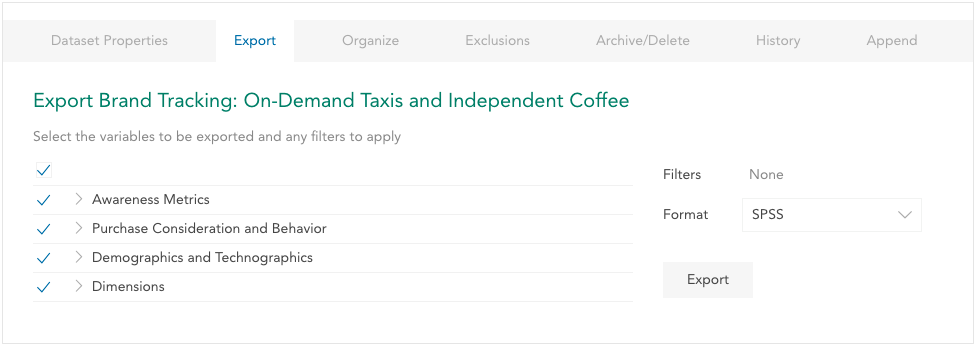
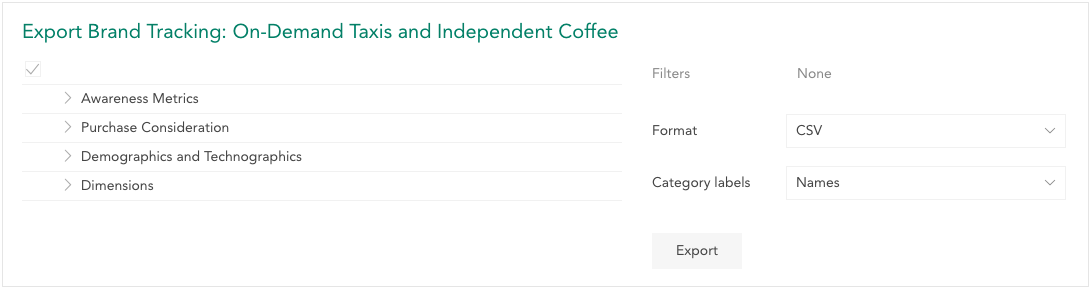
Documented new export options

diff --git a/_includes/custom/exporting-data.md b/_includes/custom/exporting-data.md
@@ -2,13 +2,31 @@ Export data by opening [Dataset Properties](crunch_dataset-properties.html) and 
 
 ![](images/ExportData.png)
 
-The dataset's variable are listed on the left side. By default all variables are selected &8211; you can choose to export only a subset of variables by deselecting any variables or groups that you don't want to export.
+### Selecting variables
+
+The dataset's variable are listed on the left side. By default all variables are selected – you can choose to export only a subset of variables by deselecting any variables or groups that you don't want to export.
+
+### Filtering variables
 
 You can use the filter bar on the right side to export a filtered subset of rows. By default, any filters that were applied to the dataset will still be applied, and you can [add and remove filters](crunch_filtering-data.html) in the same manner as you would elsewhere.
 
-Once you have determined what rows and columns to export, select a format (SPSS or CSV) from the **Format** selector and click the **Export** button. The button will read **Exporting...** while the export is prepared.
+###Export Options
 
-Once the export is complete, the **Export** button will be replaced by **Download** and **Cancel**.
+Once you have determined what rows and columns to export, select a format (SPSS or CSV) from the **Format** selector.
+
+If **CSV** is selected, you can set the following option:
+
+**Category Labels** – By default, category names will be exported to the CSV file. Change to **IDs** to have the numeric ID of the category exported instead.
+
+If **SPSS** is selected, you can set the following options:
+
+**Variable Labels** – By default the variable description will be exported as the SPSS variable label. Select **Name** to export the variable name as the SPSS variable label instead.
+
+**Array Labels** – By default array and multiple response subvariables will be exported with only their subvariable name. Select **Include array name** to have the array variable name prepended in the format **Array name | Subvariable name**.
+
+### Exporting
+
+Once finished setting options, click **Export** to export the dataset. You will see a loading indicator. Once the export is complete, **Download** and **Cancel** buttons will be available.
 
 ![](images/DownloadExport.png)
 

diff --git a/kb/home.md b/kb/home.md
@@ -1,0 +1,23 @@
+---
+audience: all
+---
+
+<!--search commented out if we want to add
+<div id="home-search">
+    <input type="text" id="home-search-input" placeholder="Search for help...">
+    <ul id="home-results-container"></ul>
+</div>
+<script src="../js/jekyll-search.js" type="text/javascript"></script>
+<script type="text/javascript">
+    SimpleJekyllSearch.init({
+        searchInput: document.getElementById('home-search-input'),
+        resultsContainer: document.getElementById('home-results-container'),
+        dataSource: '../search.json',
+        searchResultTemplate: '<li><a href="{url}">{title}</a></li>',
+    noResultsText: 'No results found.',
+            limit: 10,
+            fuzzy: true,
+    })
+</script>
+-->
+Here's a Knowledge Base
